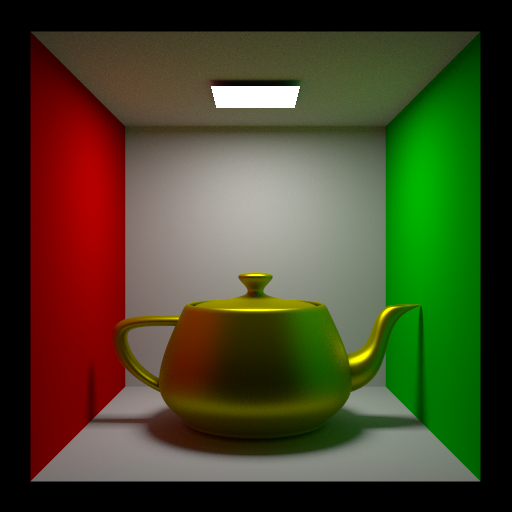
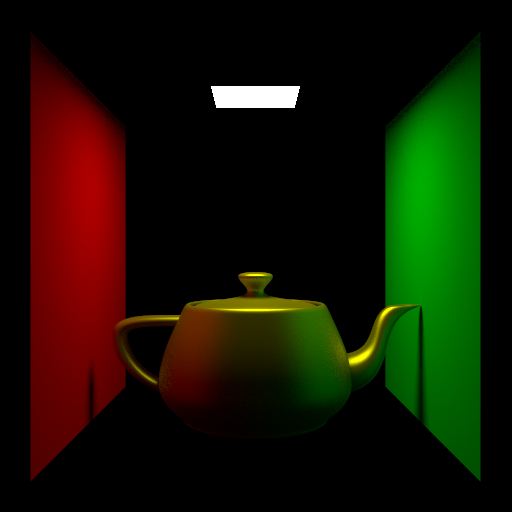
add catcher mask output from gbuffer; edit test77

diff --git a/main/testsA.cpp b/main/testsA.cpp
@@ -4539,10 +4539,11 @@ bool test77_save_gbuffer_layers()
   hrMaterialOpen(mat8, HR_WRITE_DISCARD);
   {
     xml_node matNode = hrMaterialParamNode(mat8);
-    xml_node diff = matNode.append_child(L"diffuse");
+    matNode.attribute(L"type").set_value(L"shadow_catcher");
+    /*xml_node diff = matNode.append_child(L"diffuse");
 
     diff.append_attribute(L"brdf_type").set_value(L"lambert");
-    diff.append_child(L"color").text().set(L"0.5 0.5 0.5");
+    diff.append_child(L"color").text().set(L"0.5 0.5 0.5");*/
   }
   hrMaterialClose(mat8);
 
@@ -4700,7 +4701,7 @@ bool test77_save_gbuffer_layers()
     node.append_child(L"method_primary").text()   = L"pathtracing"; // L"pathtracing"; // L"lighttracing"; // IBPT
     node.append_child(L"trace_depth").text()      = 5;
     node.append_child(L"diff_trace_depth").text() = 3;
-    node.append_child(L"maxRaysPerPixel").text()  = 1024;
+    node.append_child(L"maxRaysPerPixel").text()  = 512;
     node.append_child(L"evalgbuffer").text()      = 1;
   }
   hrRenderClose(renderRef);
@@ -4789,6 +4790,7 @@ bool test77_save_gbuffer_layers()
   hrRenderSaveGBufferLayerLDR(renderRef, L"tests_images/test_77/z_out6.png", L"alpha");
   hrRenderSaveGBufferLayerLDR(renderRef, L"tests_images/test_77/z_out7.png", L"shadow");
 
+
   const unsigned int palette[20] = { 0xffff0000, 0xff00ff00, 0xff0000ff, 0xff0082c8,
                                      0xfff58231, 0xff911eb4, 0xff46f0f0, 0xfff032e6,
                                      0xffd2f53c, 0xfffabebe, 0xff008080, 0xffe6beff,
@@ -4800,8 +4802,9 @@ bool test77_save_gbuffer_layers()
   hrRenderSaveGBufferLayerLDR(renderRef, L"tests_images/test_77/z_out10.png", L"instid", (const int32_t*)palette, 20);
 
   hrRenderSaveGBufferLayerLDR(renderRef, L"tests_images/test_77/z_out11.png", L"coverage");
+  hrRenderSaveGBufferLayerLDR(renderRef, L"tests_images/test_77/z_out12.png", L"catcher");
 
-  return check_images("test_77", 11, 25.0f);
+  return check_images("test_77", 12, 25.0f);
 }
 
 bool test78_material_remap_list1()

diff --git a/hydra_api/HydraAPI_GBuffer.cpp b/hydra_api/HydraAPI_GBuffer.cpp
@@ -290,7 +290,7 @@ HAPI bool hrRenderSaveGBufferLayerLDR(const HRRenderRef a_pRender, const wchar_t
       ExtractAlphaLine(&gbufferLine[0], &imageLDR[y*width], width);
     else if (lname == L"shadow")
       ExtractShadowLine(&gbufferLine[0], &imageLDR[y*width], width);
-    else if (lname == L"matid" || lname == L"mid")
+    else if (lname == L"matid" || lname == L"mid" || lname == L"catcher")
       ExtractMaterialId(&gbufferLine[0], &imageLDR[y*width], width);
     else if (lname == L"objid")
       ExtractObjId(&gbufferLine[0], &imageLDR[y*width], width);
@@ -299,7 +299,7 @@ HAPI bool hrRenderSaveGBufferLayerLDR(const HRRenderRef a_pRender, const wchar_t
     else if (lname == L"coverage")
       ExtractCoverage(&gbufferLine[0], &imageLDR[y*width], width);
 
-    if (lname == L"matid" || lname == L"mid" || lname == L"objid" || lname == L"instid")
+    if (lname == L"matid" || lname == L"mid" || lname == L"objid" || lname == L"instid" )
     {
       unsigned int* line = (unsigned int*)&imageLDR[y*width];
       for (int x = 0; x < width; x++)
@@ -310,6 +310,21 @@ HAPI bool hrRenderSaveGBufferLayerLDR(const HRRenderRef a_pRender, const wchar_t
         else
           line[x] = palette[index % paletteSize];
       }
+    }
+
+    if(lname == L"catcher")
+    {
+      unsigned int* line = (unsigned int*)&imageLDR[y*width];
+      for (int x = 0; x < width; x++)
+      {
+        const int index = gbufferLine[x].matId;// & 0x00FFFFFF;
+
+        if (g_objManager.scnData.m_shadowCatchers.find(index) != g_objManager.scnData.m_shadowCatchers.end())
+          line[x] = 0x00FFFFFF;
+        else
+          line[x] = 0;
+      }
+
     }
   }
 

diff --git a/main/main.cpp b/main/main.cpp
@@ -126,7 +126,8 @@ int main(int argc, const char** argv)
     //std::cout << test59_cornell_water_mlt() << std::endl;
     //std::cout << test70_area_lights16() << std::endl;
     //std::cout << test78_material_remap_list1() << std::endl;
-    std::cout << test79_material_remap_list2() << std::endl;
+    //std::cout << test79_material_remap_list2() << std::endl;
+    test77_save_gbuffer_layers();
 
     //std::cout << test72_load_library_sigle_teapot_with_opacity() << std::endl;
     //GEO_TESTS::test_005_instancing();

diff --git a/main/tests.h b/main/tests.h
@@ -362,7 +362,7 @@ void run_all_lgt_tests(int a_start = 0);
 void run_all_ipp_tests(int a_start = 0);
 void terminate_opengl();
 
-static const int CURR_RENDER_DEVICE = 1;
+static const int CURR_RENDER_DEVICE = 0;
 
 //void image_p_sandbox();
 
